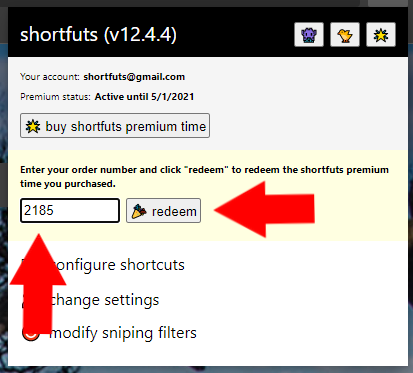
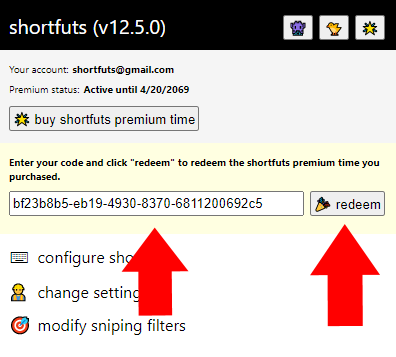
updates instructions

diff --git a/src/Buy.js b/src/Buy.js
@@ -2,6 +2,7 @@ import React, { useState } from "react";
 import "./App.css";
 import orderNumberScreenshot from "./orderNumber.png";
 import redeemScreenshot from "./redeem.png";
+import codeScreenshot from "./code.png";
 
 function Buy() {
   return (
@@ -95,11 +96,12 @@ function Buy() {
 
       {/* STEP #2 */}
       <div style={{ marginBottom: "36px", fontWeight: "bold" }}>
-        2. Get your order number from the receipt sent to your email.
+        2. Get your code that was sent to your email (check your spam folder if
+        you don't see it).
         <div style={{ display: "flex", justifyContent: "center" }}>
           <img
             style={{ marginTop: "12px", width: "450px" }}
-            src={orderNumberScreenshot}
+            src={codeScreenshot}
           />
         </div>
       </div>
